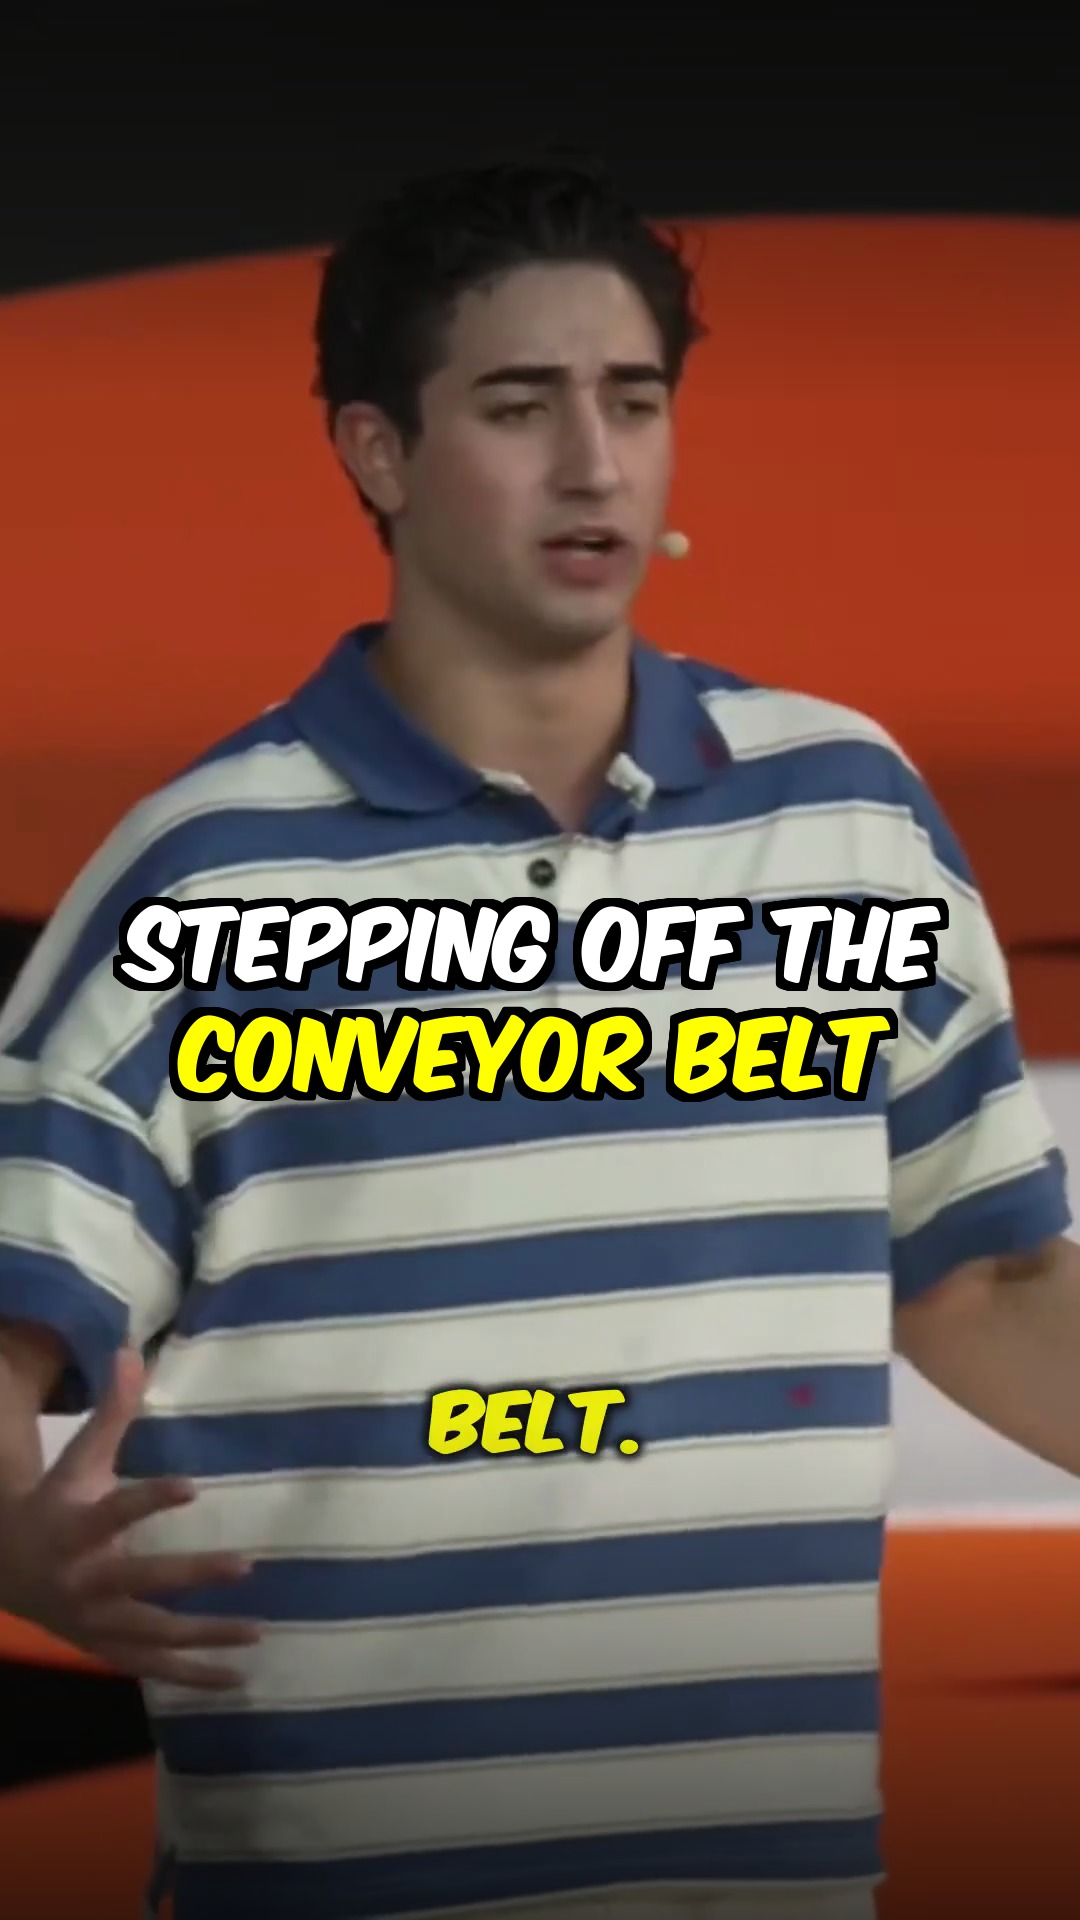
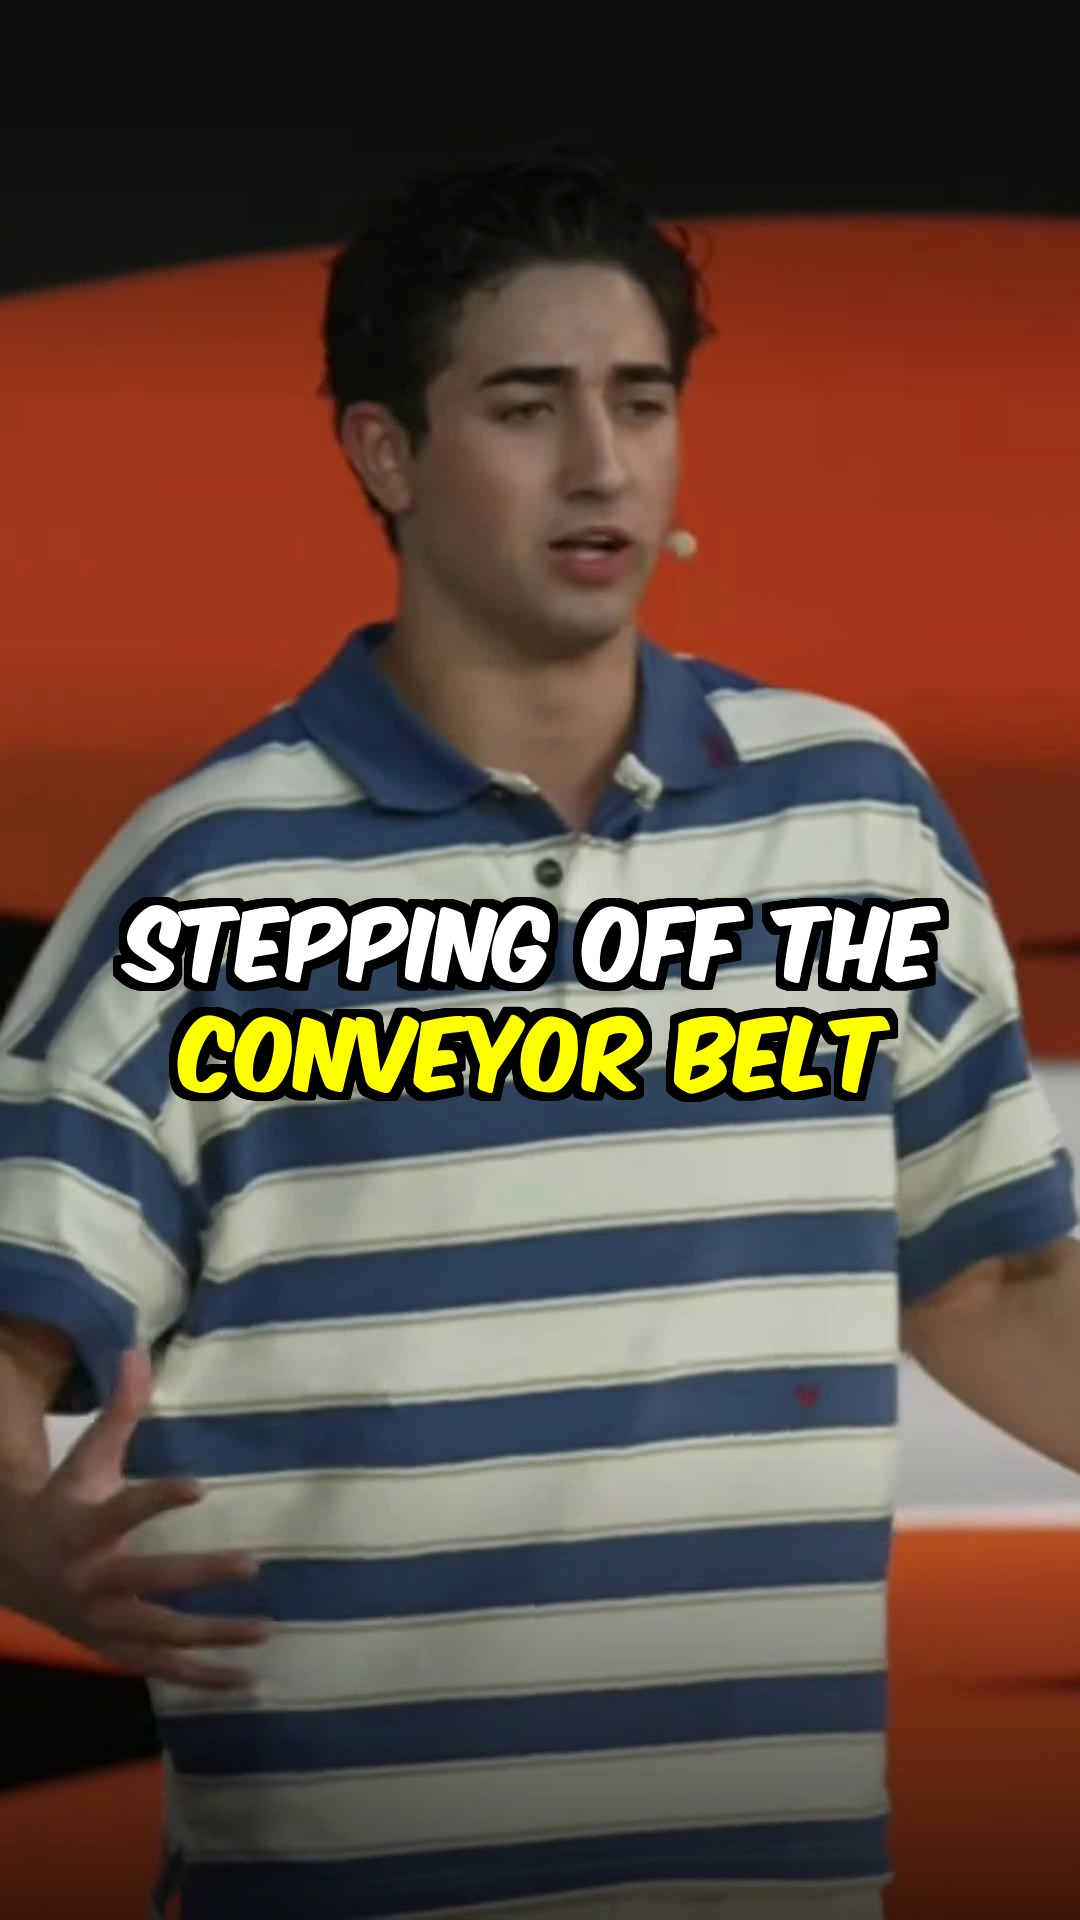
generate thumbnails from clean tracked video before subtitle burn-in

diff --git a/backend/src/pipeline.py b/backend/src/pipeline.py
@@ -151,7 +151,17 @@ def run_pipeline(
 
         sub_file = generated_ass if burn_subtitles else None
 
-        # 3d. Merge and mux final video
+        # 3d. Hook Thumbnail (generate from clean 9:16 tracked video before subtitle burn-in)
+        thumb_path = str(clips_dir / f"{clip_prefix}_thumb.jpg")
+        generate_hook_thumbnail(
+            trk_vid,
+            thumb_path,
+            hook_text=clip["title"],
+            virality_score=clip["virality_score"],
+            timestamp_s=min(2.0, clip_dur / 2.0),
+        )
+
+        # 3e. Merge and mux final video
         report(
             "rendering",
             f"Merging audio and burning subtitles for clip {idx}...",
@@ -168,16 +178,6 @@ def run_pipeline(
             fonts_dir=fonts_dir_str,
         )
         final_video_path = str(clips_dir / f"clip_{idx}.mp4")
-
-        # 3e. Hook Thumbnail
-        thumb_path = str(clips_dir / f"{clip_prefix}_thumb.jpg")
-        generate_hook_thumbnail(
-            final_video_path,
-            thumb_path,
-            hook_text=clip["title"],
-            virality_score=clip["virality_score"],
-            timestamp_s=min(2.0, clip_dur / 2.0),
-        )
 
         # 3g. Creator SEO Pack
         snippet_words = [
